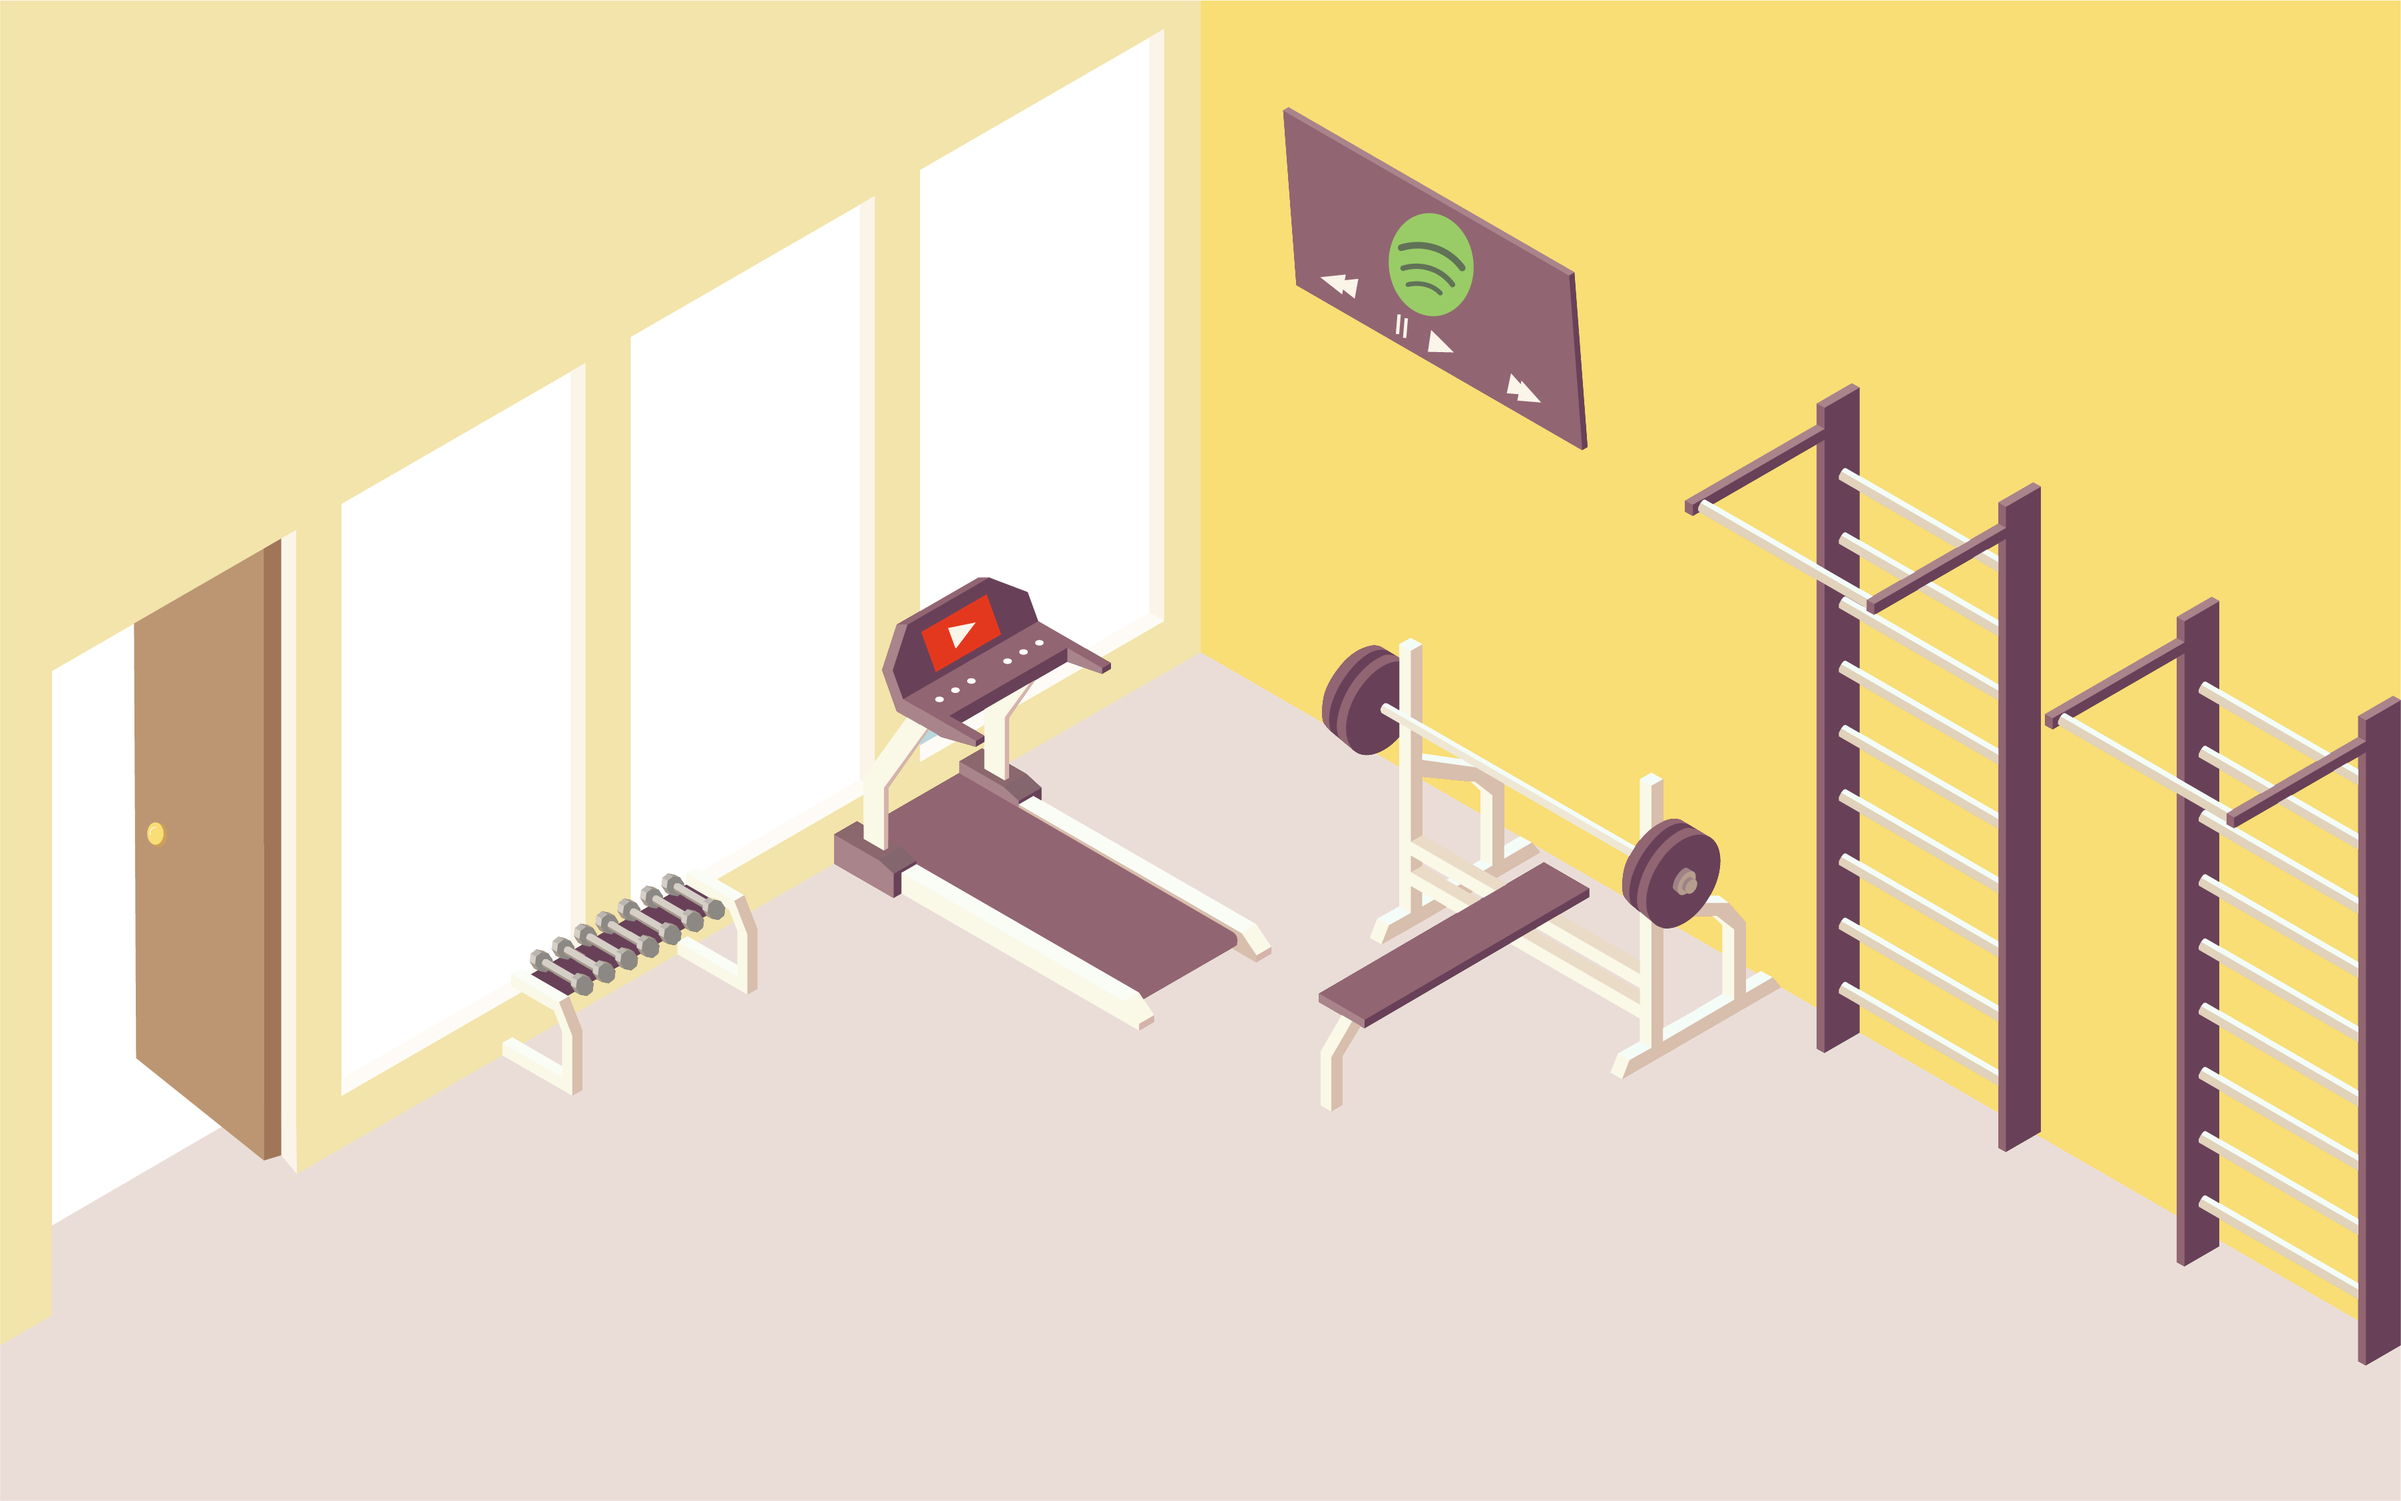
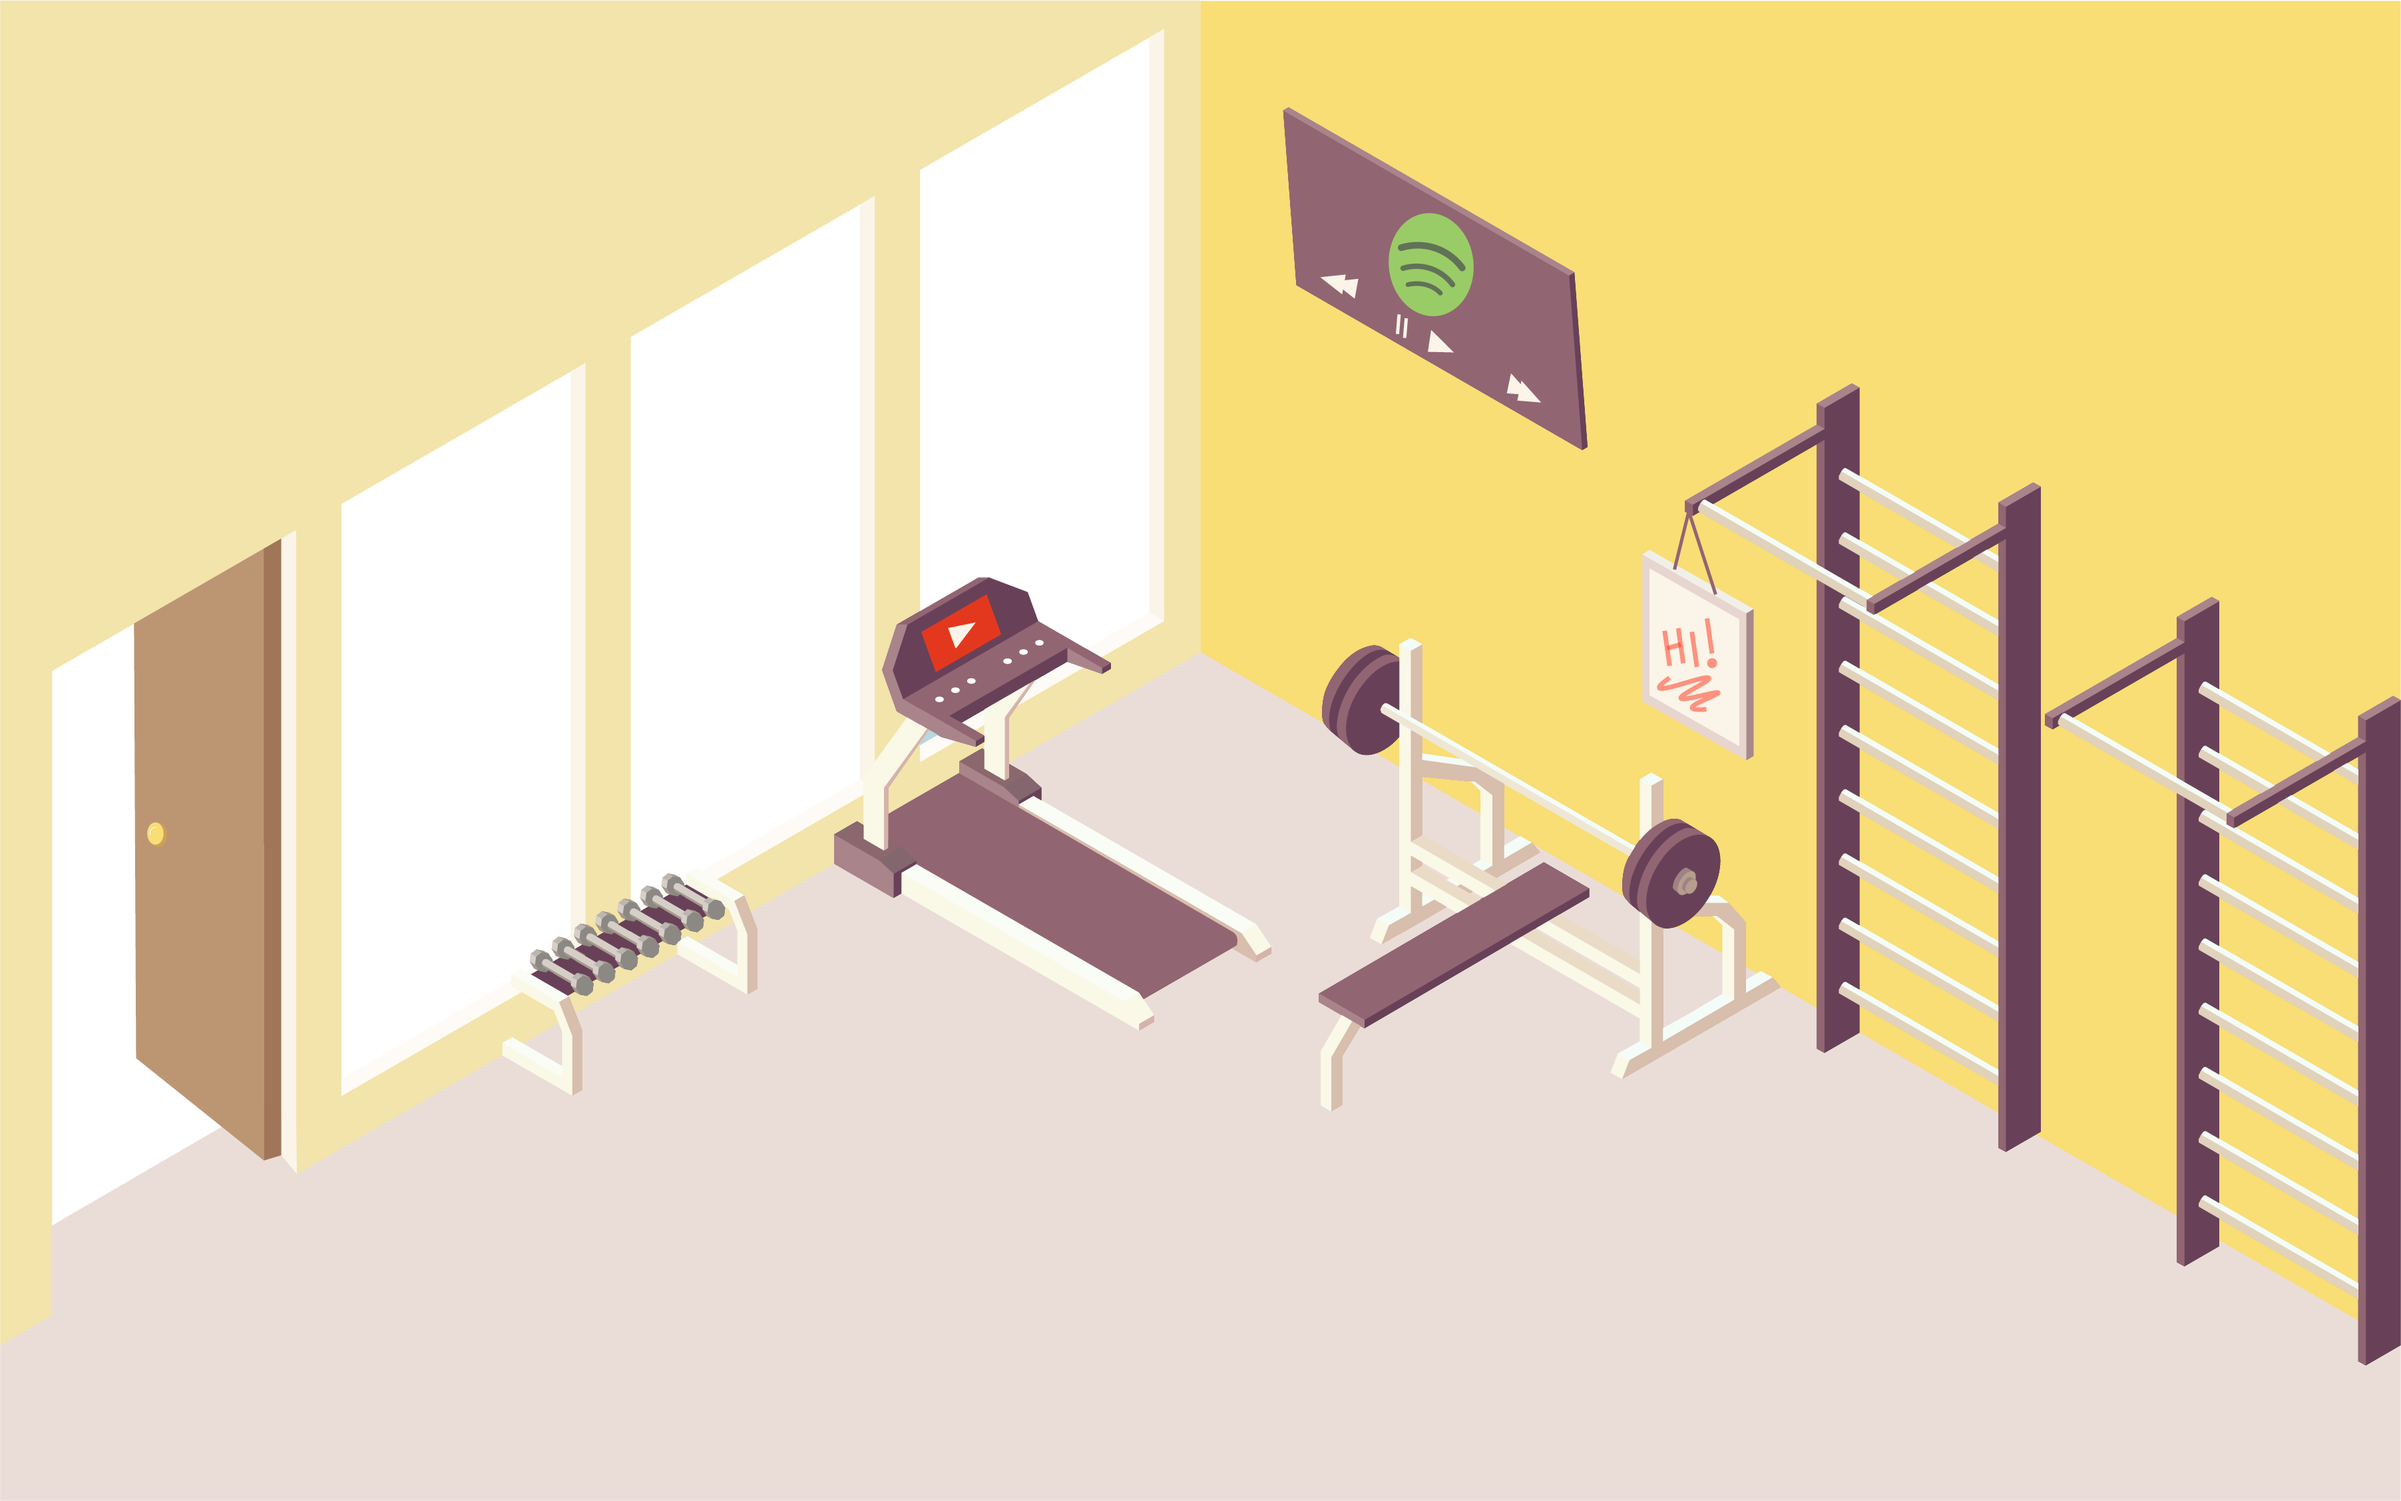
Added whiteboard to gym and cafe

Changed region(s): [[0.6831, 0.3415, 0.7452, 0.4967]]

diff --git a/src/components/Gym.js b/src/components/Gym.js
@@ -2,6 +2,7 @@ import React, { useState } from 'react';
 import { makeStyles } from '@material-ui/core/styles';
 import gymDefault from '../assets/gymDefault.png';
 import gymOpen from '../assets/gymOpen.png';
+import gymWhiteboard from '../assets/gymWhiteboard.png';
 import gymSpotify from '../assets/gymSpotify.png';
 import gymYT from '../assets/gymYT.png';
 import { useHistory } from 'react-router-dom';
@@ -31,6 +32,12 @@ const useStyles = makeStyles(() => ({
         backgroundSize: 'cover',
     }, spotifyHighlight: {
         backgroundImage: `url(${gymSpotify})`,
+        height: '100vh',
+        backgroundPosition: 'center',
+        backgroundRepeat: 'no-repeat',
+        backgroundSize: 'cover',
+    }, whiteboardHighlight: {
+        backgroundImage: `url(${gymWhiteboard})`,
         height: '100vh',
         backgroundPosition: 'center',
         backgroundRepeat: 'no-repeat',
@@ -77,6 +84,18 @@ const useStyles = makeStyles(() => ({
         cursor: 'pointer',
         outline: 0
     },
+    whiteboardBtn: {
+        height: '8rem',
+        width: '7rem',
+        position: 'absolute',
+        top: '22rem',
+        right: '27rem',
+        color: 'transparent',
+        backgroundColor: 'transparent',
+        borderColor: 'transparent',
+        cursor: 'pointer',
+        outline: 0
+    },
     spotifyFrame: {
         position: 'absolute',
         right: '34.5rem',
@@ -95,17 +114,17 @@ export default function Gym() {
         "username" : localStorage.getItem("username"),
         "id" : 4
     }
-    api.put('/gym/' + localStorage.getItem("gym_id") + '/joined_gym', body, {headers: headers})
-    .then(res => {
-        localStorage.setItem("meeting", res.data.meeting);
-        window.open(
-            res.data.meeting,
-            '_blank' // <- This is what makes it open in a new window.
-        );
-    })
-    .catch((err) => {
-        console.log(err.response);
-    })
+    // api.put('/gym/' + localStorage.getItem("gym_id") + '/joined_gym', body, {headers: headers})
+    // .then(res => {
+    //     localStorage.setItem("meeting", res.data.meeting);
+    //     window.open(
+    //         res.data.meeting,
+    //         '_blank' // <- This is what makes it open in a new window.
+    //     );
+    // })
+    // .catch((err) => {
+    //     console.log(err.response);
+    // })
     
     function handleYTHover() {
         setGClass(classes.ytHighlight);
@@ -113,6 +132,14 @@ export default function Gym() {
 
     function handleYTClick() {
         // TODO: play YT vid
+    }
+    
+    function handleWhiteboardHover() {
+        setGClass(classes.whiteboardHighlight);
+    }
+
+    function handleWhiteboardClick() {
+        // TODO: show embedded whiteboard
     }
     
     function handleSpotifyHover() {
@@ -140,6 +167,7 @@ export default function Gym() {
             <button className={classes.youtubeBtn} onMouseEnter={() => handleYTHover()} onMouseOut={() => resetBackground()} onClick={() => handleYTClick()}/>
             <button className={classes.spotifyBtn} onMouseEnter={() => handleSpotifyHover()} onMouseOut={() => resetBackground()} onClick={() => handleSpotifyClick()}/>
             <button className={classes.doorBtn} onMouseEnter={() => handleDoorHover()} onMouseOut={() => resetBackground()} onClick={() => handleDoorClick()}/>
+            <button className={classes.whiteboardBtn} onMouseEnter={() => handleWhiteboardHover()} onMouseOut={() => resetBackground()} onClick={() => handleWhiteboardClick()}/>
             { showSpotify && 
                 <iframe title="spotify" src="https://open.spotify.com/embed/playlist/5sHebLj2M8wPPc1rfLKtX9?si=ulRKMYT9R8C7Scmcny3fJQ" className={classes.spotifyFrame} width="300" height="300" frameborder="0" allowtransparency="true" allow="encrypted-media"></iframe>
             }

diff --git a/src/components/Cafe.js b/src/components/Cafe.js
@@ -2,6 +2,7 @@ import React, { useState } from 'react';
 import { makeStyles } from '@material-ui/core/styles';
 import cafeDefault from '../assets/cafeDefault.png';
 import cafeOpen from '../assets/cafeOpen.png';
+import cafeWhiteboard from '../assets/cafeWhiteboard.png';
 import cafeSpotify from '../assets/cafeSpotify.png';
 import cafeYT from '../assets/cafeYT.png';
 import { useHistory } from 'react-router-dom';
@@ -21,6 +22,12 @@ const useStyles = makeStyles(() => ({
         backgroundSize: 'cover',
     }, spotifyHighlight: {
         backgroundImage: `url(${cafeSpotify})`,
+        height: '100vh',
+        backgroundPosition: 'center',
+        backgroundRepeat: 'no-repeat',
+        backgroundSize: 'cover',
+    }, whiteboardHighlight: {
+        backgroundImage: `url(${cafeWhiteboard})`,
         height: '100vh',
         backgroundPosition: 'center',
         backgroundRepeat: 'no-repeat',
@@ -67,6 +74,18 @@ const useStyles = makeStyles(() => ({
         cursor: 'pointer',
         outline: 0
     },
+    whiteboardBtn: {
+        height: '8rem',
+        width: '6rem',
+        position: 'absolute',
+        top: '13rem',
+        right: '34rem',
+        color: 'transparent',
+        backgroundColor: 'transparent',
+        borderColor: 'transparent',
+        cursor: 'pointer',
+        outline: 0
+    },
     spotifyFrame: {
         position: 'absolute',
         right: '34.5rem',
@@ -87,6 +106,14 @@ export default function Cafe() {
 
     function handleYTClick() {
         // TODO: play YT vid
+    }
+
+    function handleWhiteboardHover() {
+        setGClass(classes.whiteboardHighlight);
+    }
+
+    function handleWhiteboardClick() {
+        // TODO: show embedded whiteboard
     }
     
     function handleSpotifyHover() {
@@ -114,6 +141,7 @@ export default function Cafe() {
             <button className={classes.youtubeBtn} onMouseEnter={() => handleYTHover()} onMouseOut={() => resetBackground()} onClick={() => handleYTClick()}/>
             <button className={classes.spotifyBtn} onMouseEnter={() => handleSpotifyHover()} onMouseOut={() => resetBackground()} onClick={() => handleSpotifyClick()}/>
             <button className={classes.doorBtn} onMouseEnter={() => handleDoorHover()} onMouseOut={() => resetBackground()} onClick={() => handleDoorClick()}/>
+            <button className={classes.whiteboardBtn} onMouseEnter={() => handleWhiteboardHover()} onMouseOut={() => resetBackground()} onClick={() => handleWhiteboardClick()}/>
             { showSpotify && 
                 <iframe title="spotify" src="https://open.spotify.com/embed/playlist/5sHebLj2M8wPPc1rfLKtX9?si=ulRKMYT9R8C7Scmcny3fJQ" className={classes.spotifyFrame} width="300" height="300" frameborder="0" allowtransparency="true" allow="encrypted-media"></iframe>
             }
